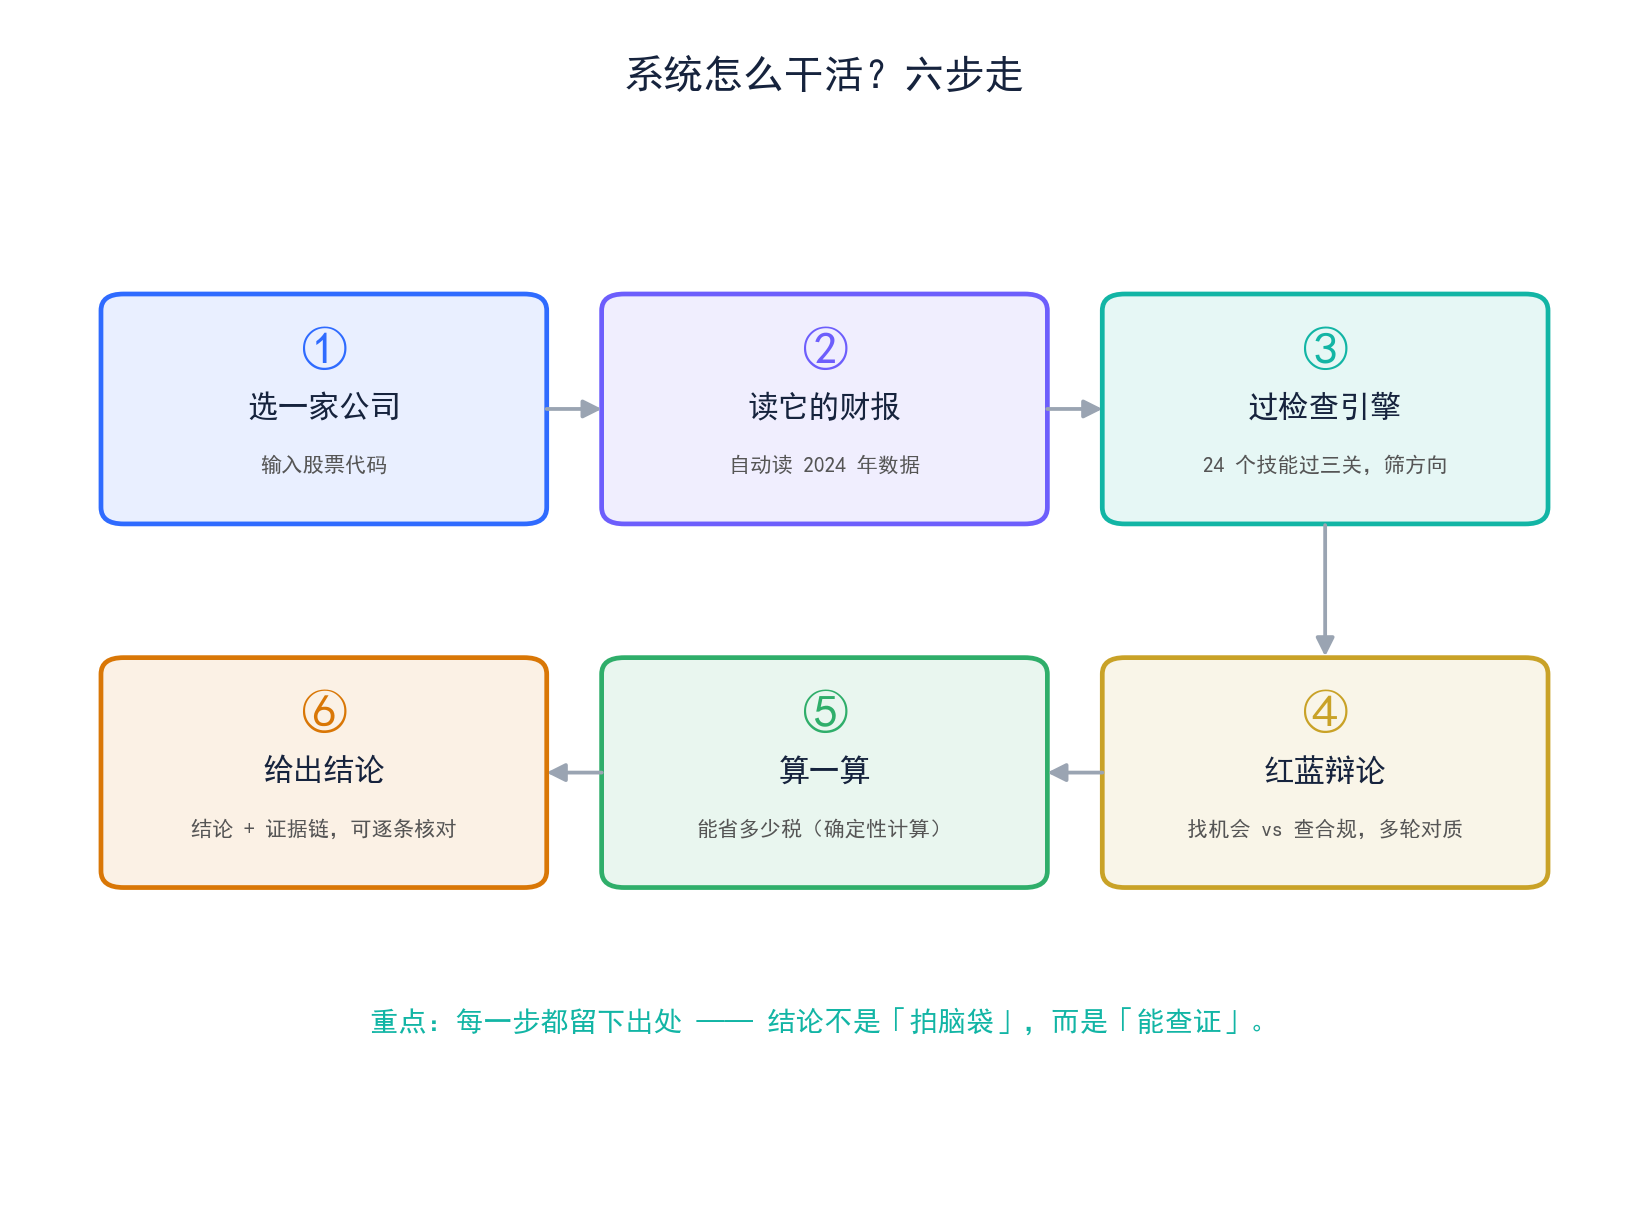
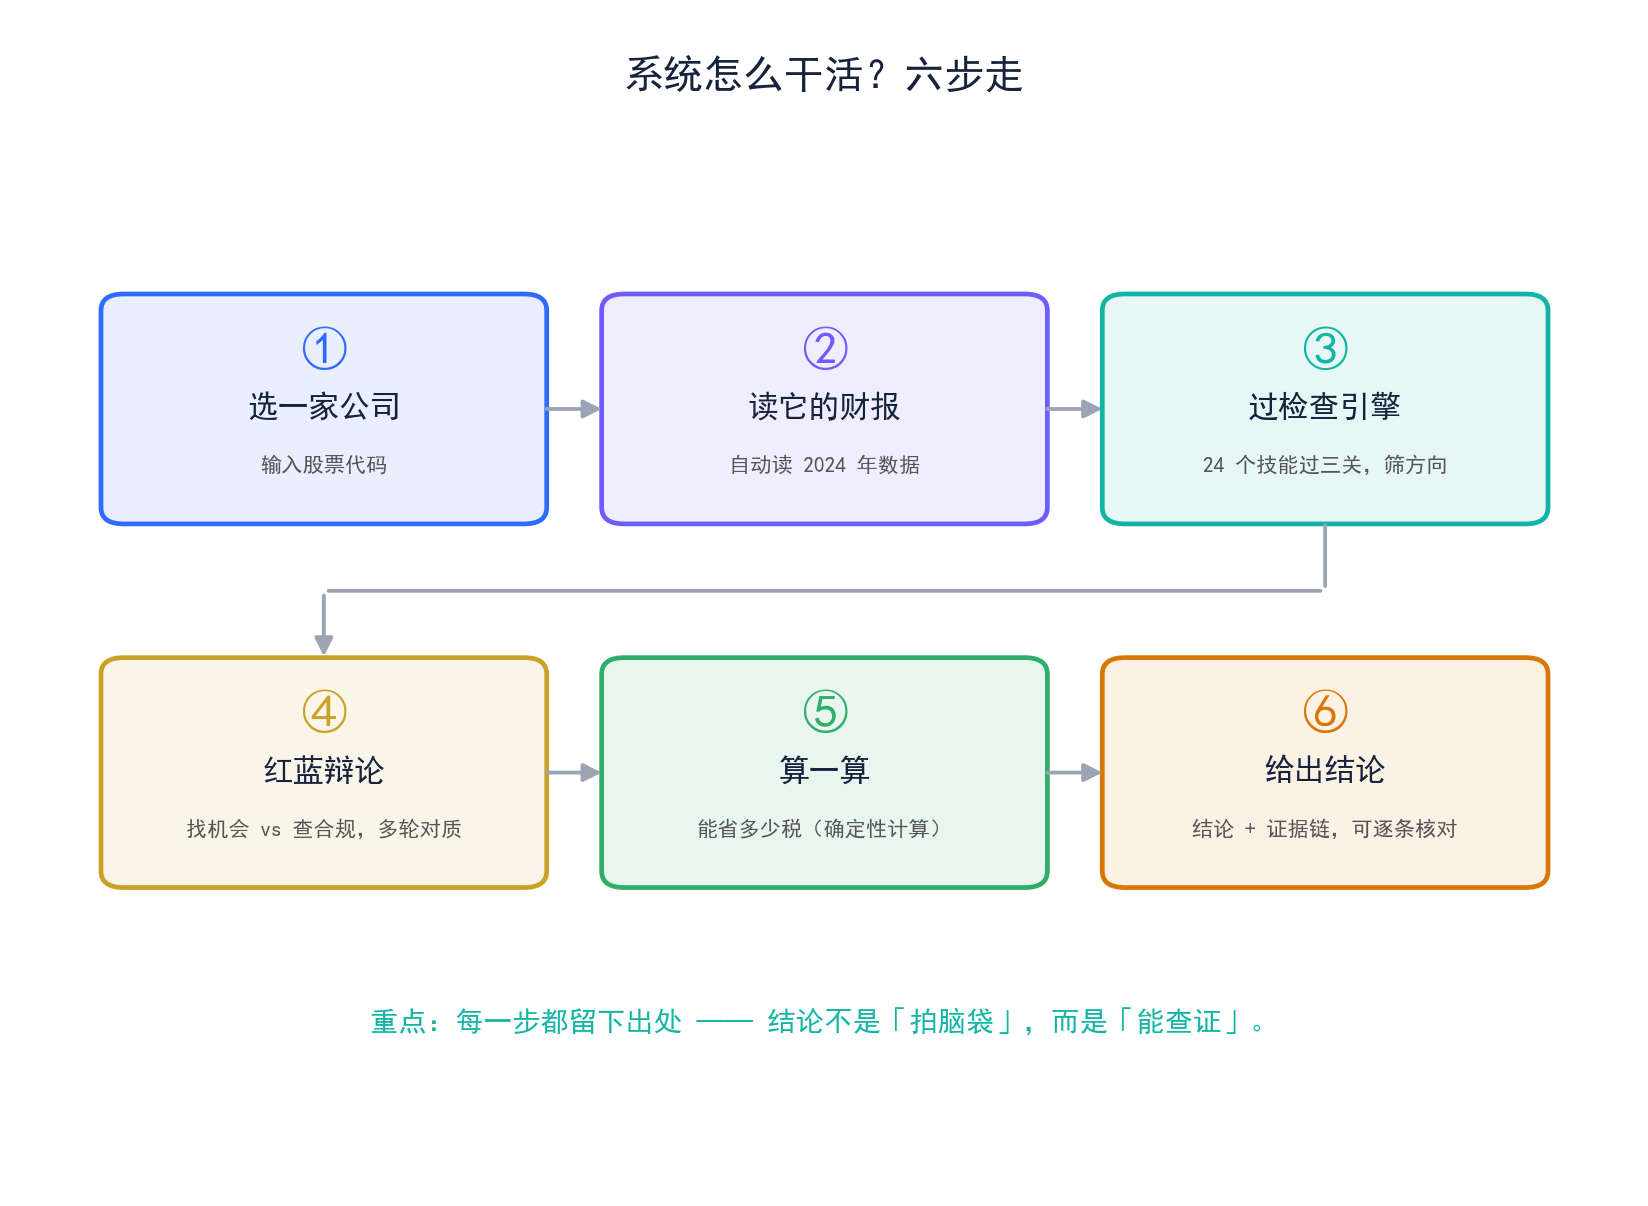
修复流程图：两行均为 1/2/3、4/5/6 顺序，③→④ 改走行间折线

diff --git a/scripts/make_demo_figures.py b/scripts/make_demo_figures.py
@@ -179,8 +179,6 @@ def flow():
     xs, ys = [0.55, 3.65, 6.75], [5.7, 2.6]
     for idx, (num, t, d) in enumerate(steps):
         r, c = divmod(idx, cols)
-        if r == 1:                    # 第二行反向排列（蛇形），使流程为 1→2→3→4→5→6
-            c = cols - 1 - c
         x, y = xs[c], ys[r]
         col = [BLUE, PURPLE, TEAL, AMBER, GREEN, ORANGE][idx]
         ax.add_patch(FancyBboxPatch((x, y), bw, bh,
@@ -192,14 +190,20 @@ def flow():
                 ha="center", va="center", fontweight="bold")
         ax.text(x + bw / 2, y + bh - 1.42, d, fontsize=9, color="#555555",
                 ha="center", va="center")
-    def arrow(x1, y1, x2, y2):
-        ax.add_patch(FancyArrowPatch((x1, y1), (x2, y2), arrowstyle="-|>",
+    def seg(p1, p2, head=False):
+        ax.add_patch(FancyArrowPatch(p1, p2, arrowstyle=("-|>" if head else "-"),
                      mutation_scale=16, color="#9aa4b2", linewidth=1.6))
-    arrow(xs[0] + bw, ys[0] + bh / 2, xs[1], ys[0] + bh / 2)
-    arrow(xs[1] + bw, ys[0] + bh / 2, xs[2], ys[0] + bh / 2)
-    arrow(xs[2] + bw / 2, ys[0], xs[2] + bw / 2, ys[1] + bh)
-    arrow(xs[2], ys[1] + bh / 2, xs[1] + bw, ys[1] + bh / 2)
-    arrow(xs[1], ys[1] + bh / 2, xs[0] + bw, ys[1] + bh / 2)
+    # 第一行 ①→②→③（左→右）
+    seg((xs[0] + bw, ys[0] + bh / 2), (xs[1], ys[0] + bh / 2), head=True)
+    seg((xs[1] + bw, ys[0] + bh / 2), (xs[2], ys[0] + bh / 2), head=True)
+    # ③→④：在行间空隙走折线（下 → 左 → 下），不压到任何箱子
+    mid = (ys[0] + (ys[1] + bh)) / 2
+    seg((xs[2] + bw / 2, ys[0]), (xs[2] + bw / 2, mid))
+    seg((xs[2] + bw / 2, mid), (xs[0] + bw / 2, mid))
+    seg((xs[0] + bw / 2, mid), (xs[0] + bw / 2, ys[1] + bh), head=True)
+    # 第二行 ④→⑤→⑥（左→右）
+    seg((xs[0] + bw, ys[1] + bh / 2), (xs[1], ys[1] + bh / 2), head=True)
+    seg((xs[1] + bw, ys[1] + bh / 2), (xs[2], ys[1] + bh / 2), head=True)
     ax.text(5.0, 9.4, "系统怎么干活？六步走", fontsize=17, ha="center",
             fontweight="bold", color="#16233d")
     ax.text(5.0, 1.35, "重点：每一步都留下出处 —— 结论不是「拍脑袋」，而是「能查证」。",
